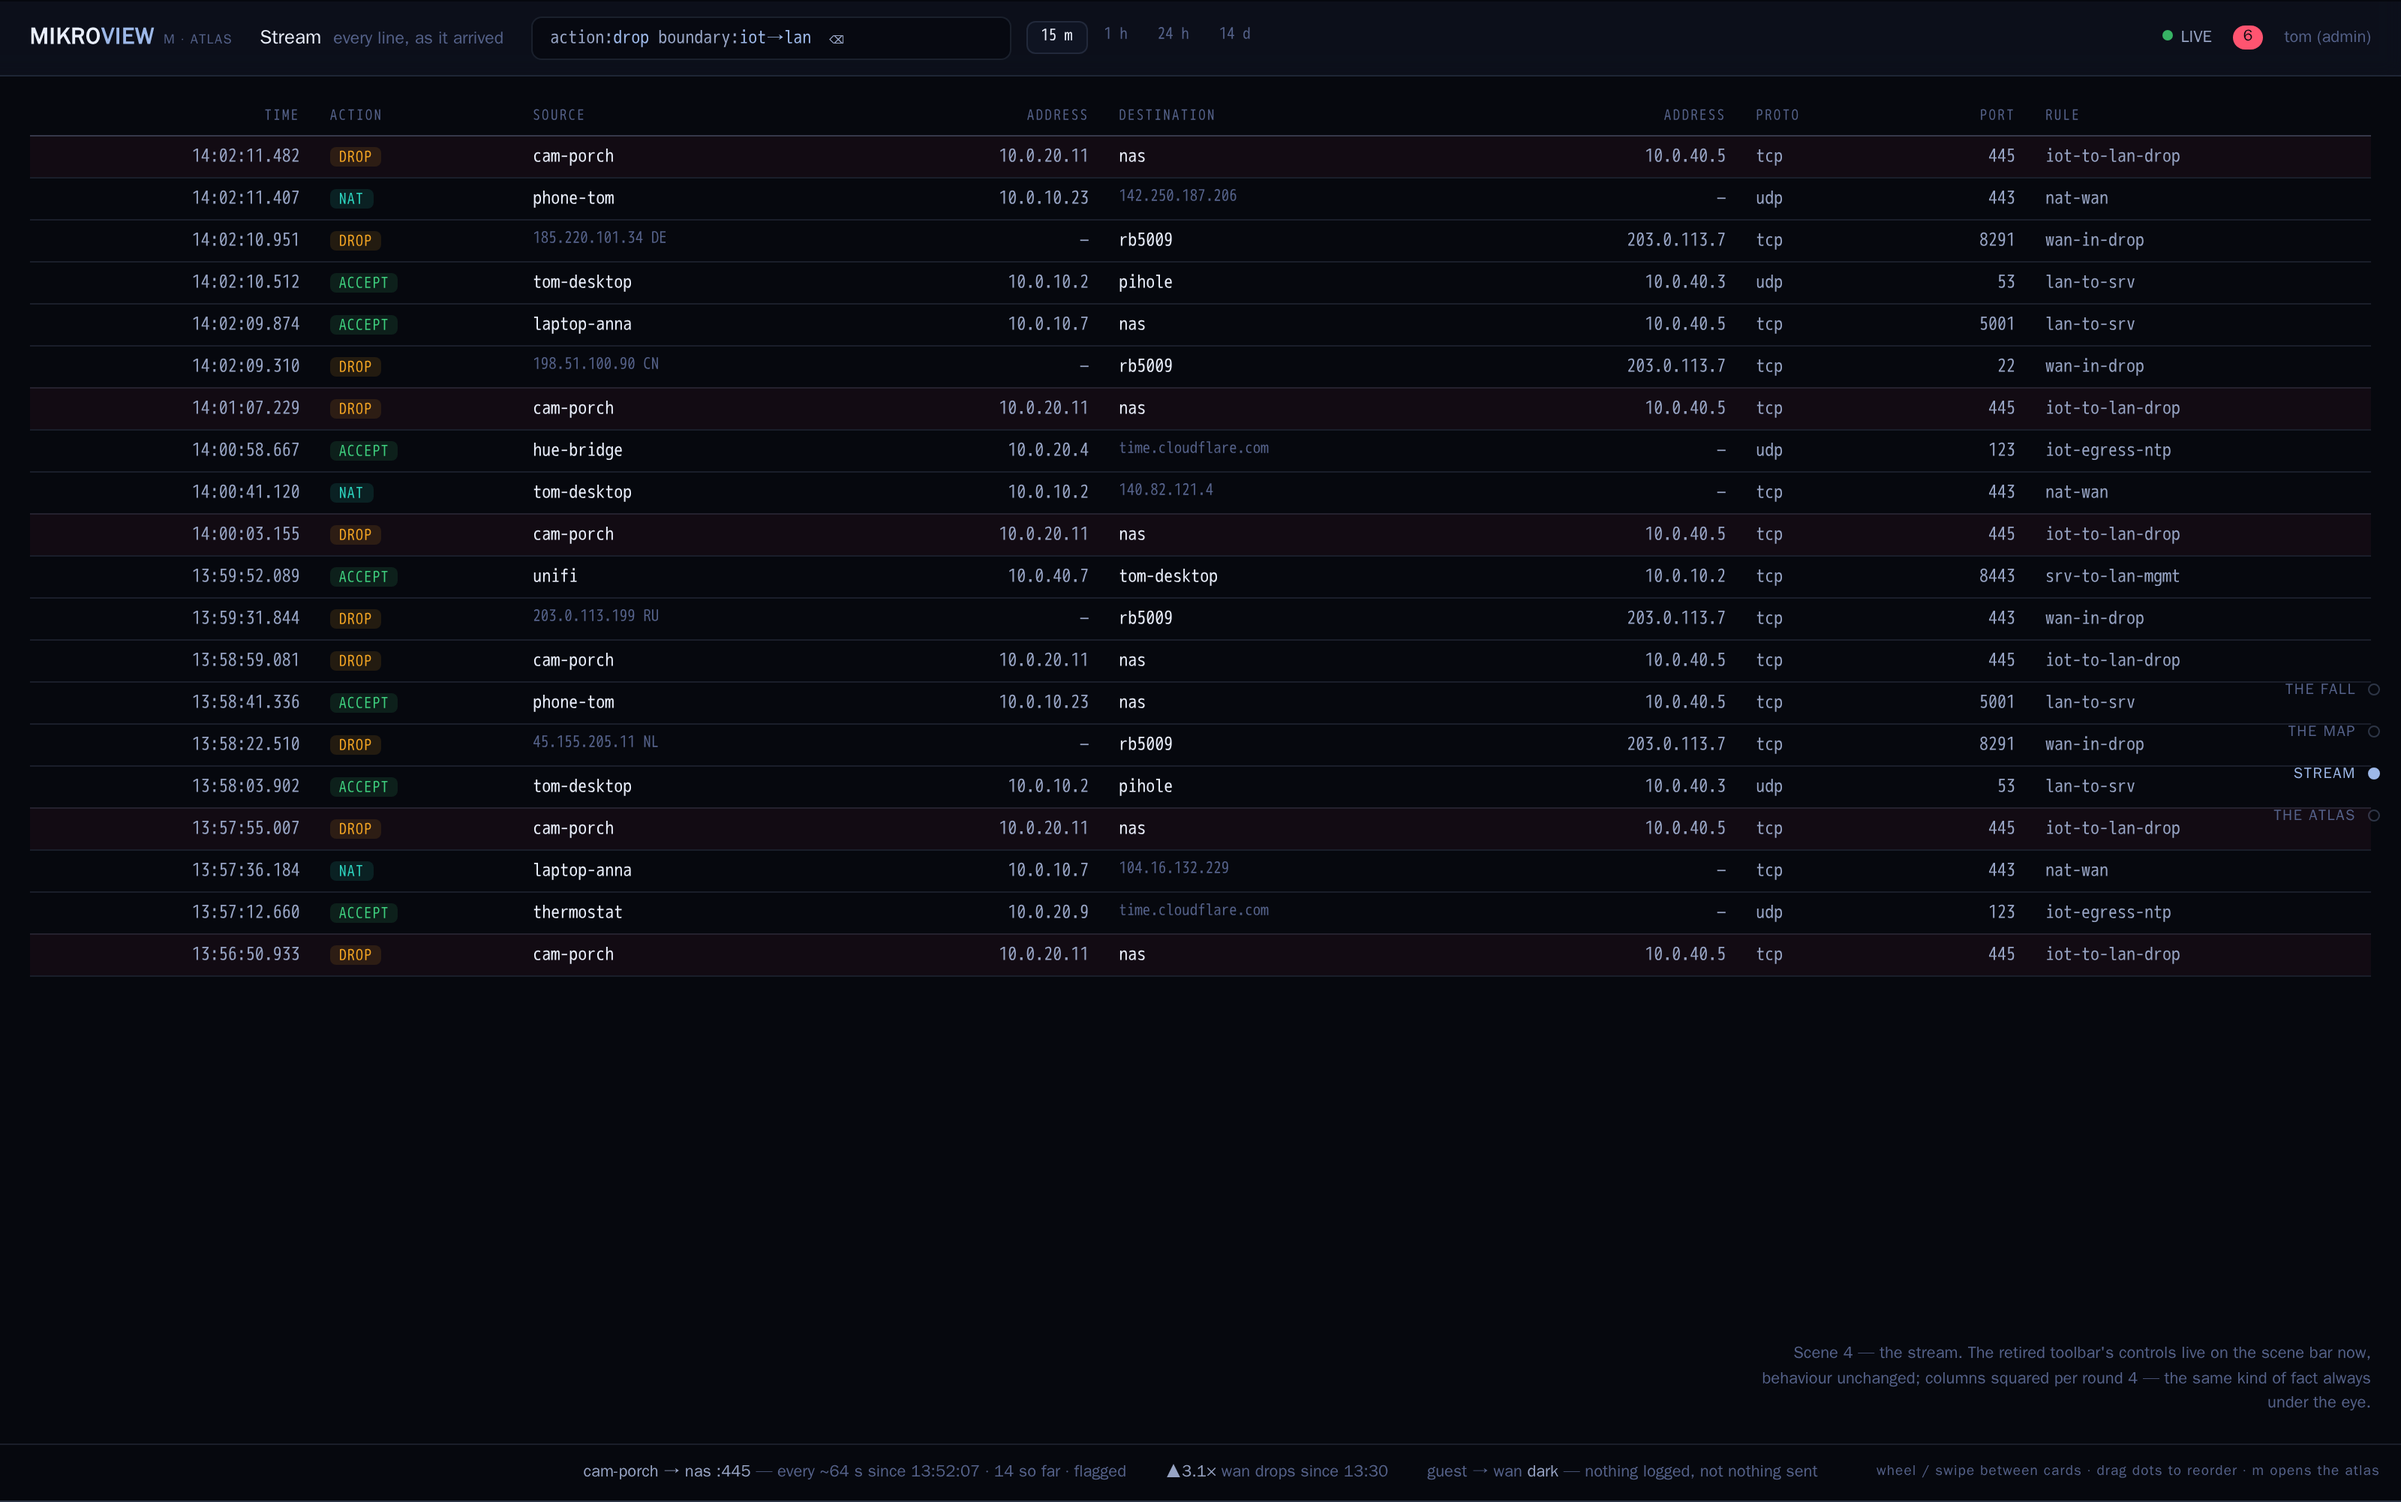
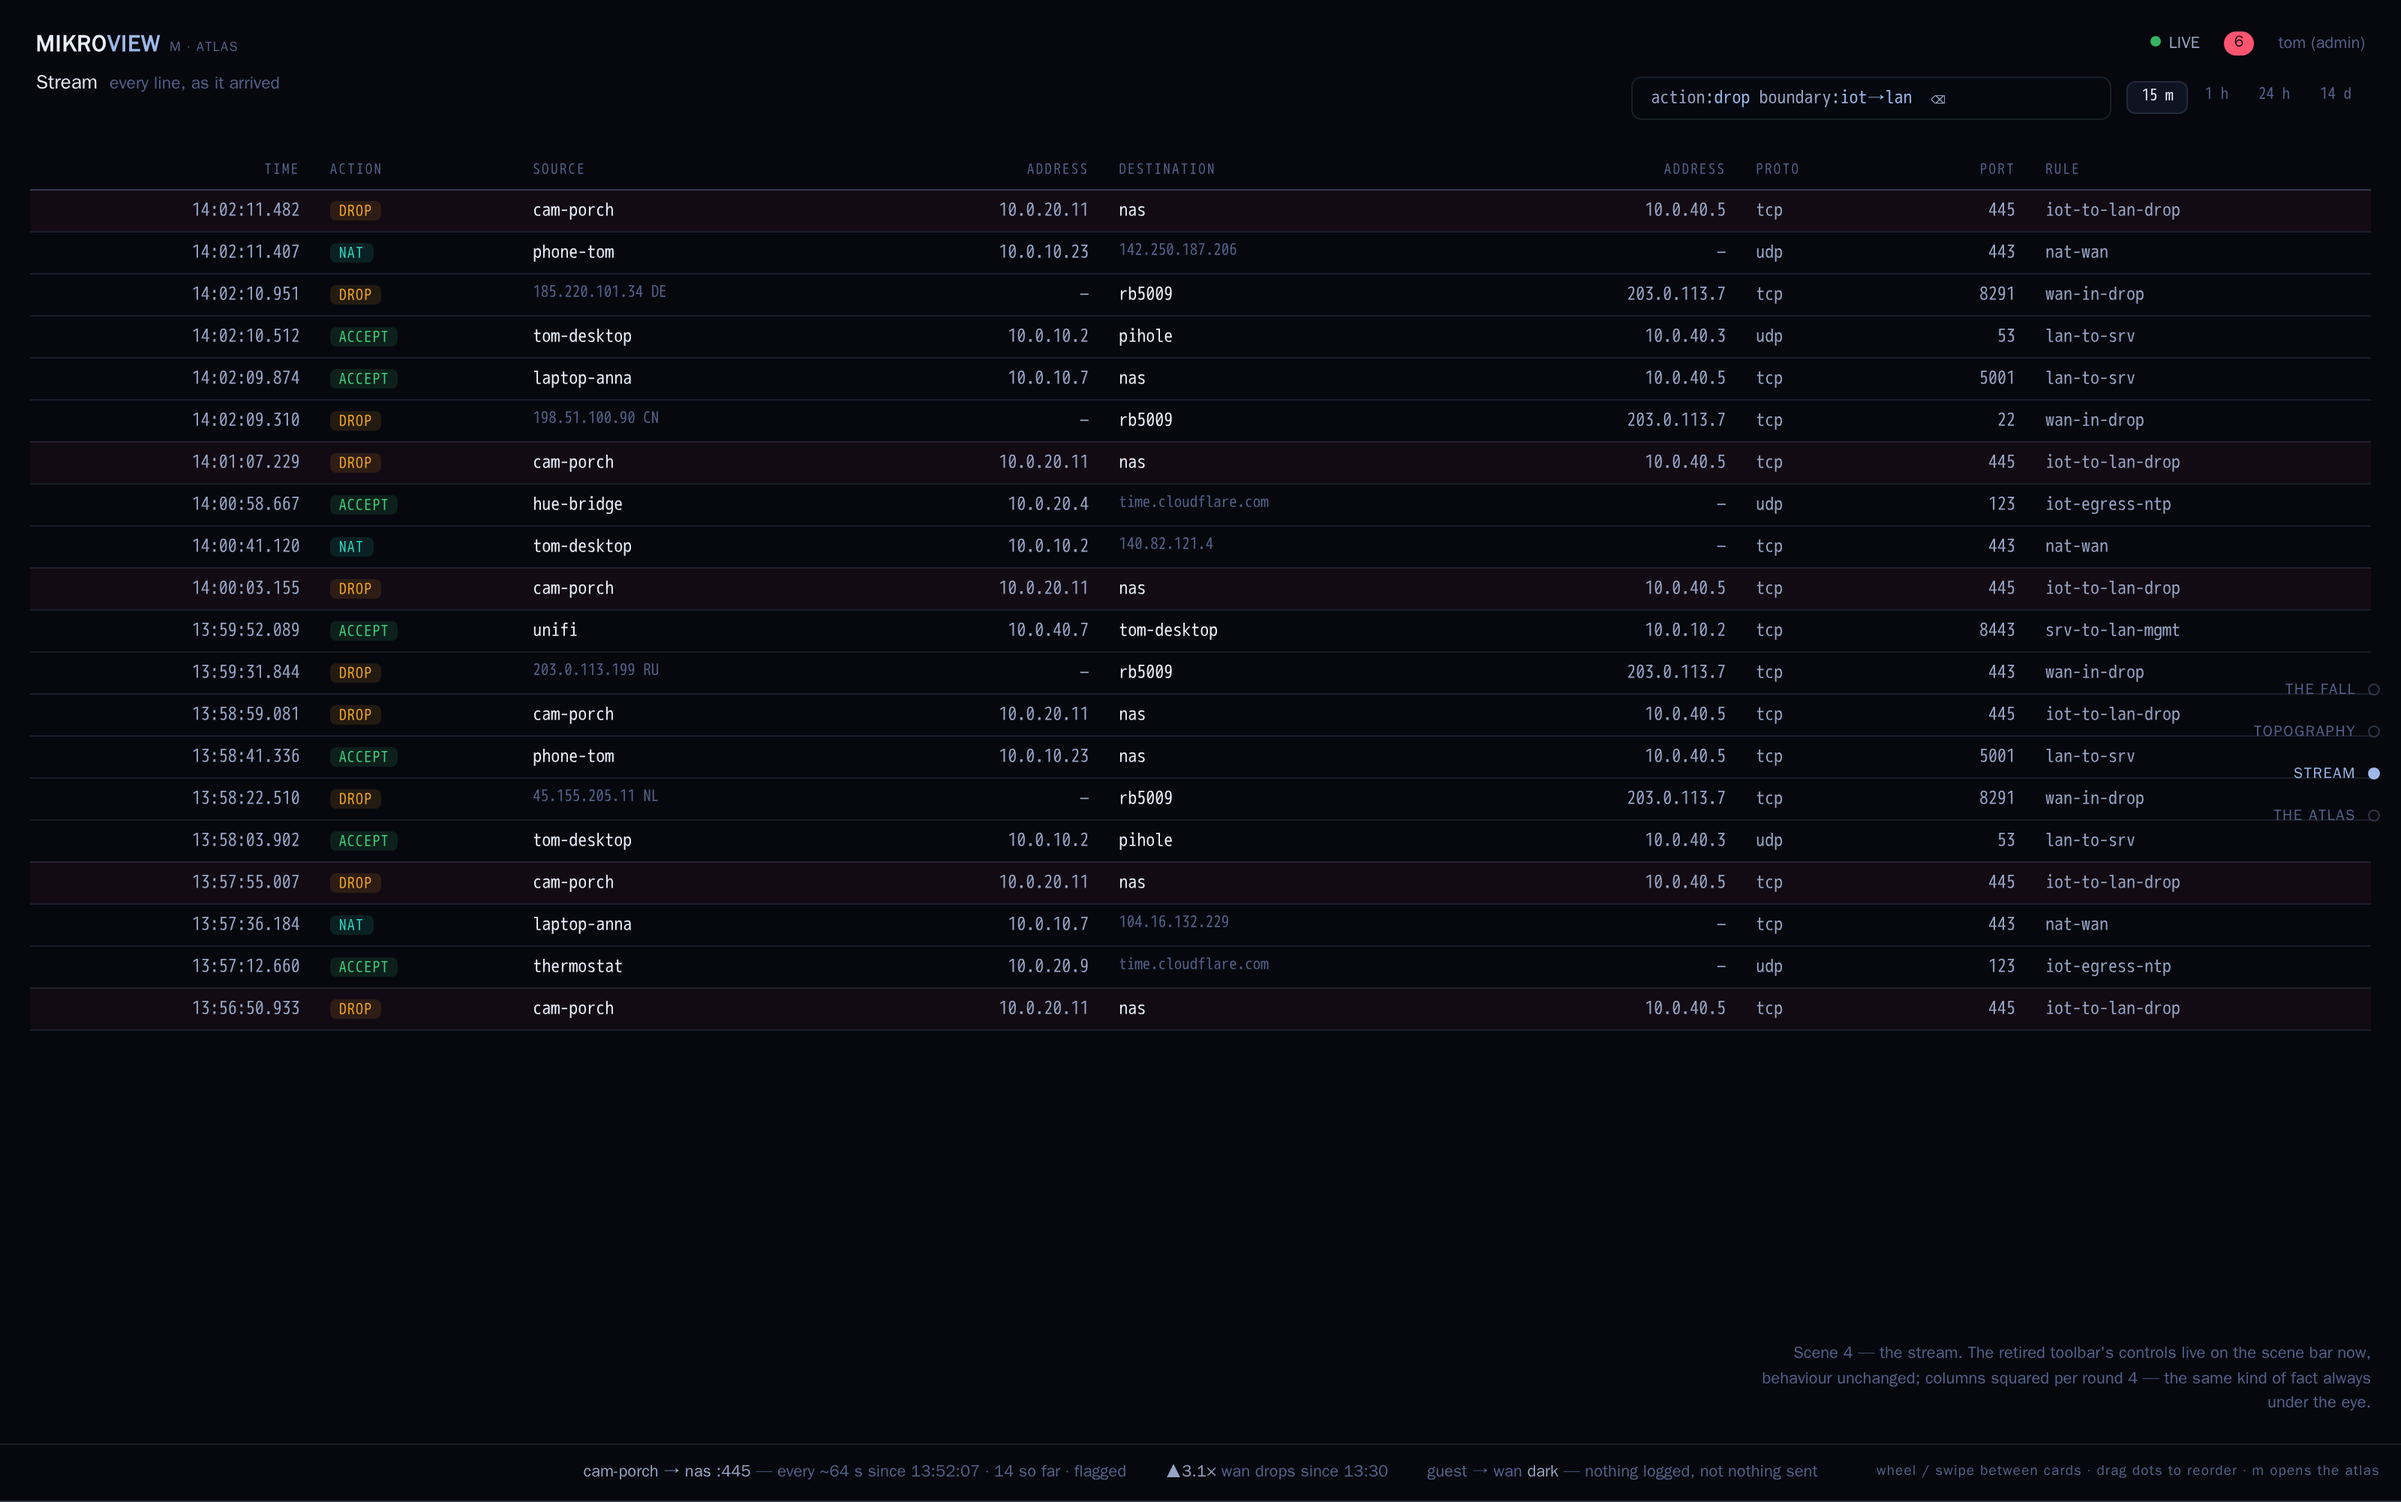
Round 5: door v3, free-floating chrome (#634)

diff --git a/docs/design/concepts/round-5/the-deck.html b/docs/design/concepts/round-5/the-deck.html
@@ -56,16 +56,17 @@
   }
 
   /* ---- the scene bar: every scene's own chrome, no rail, no toolbar ---- */
-  .scenebar {
-    display: flex; align-items: center; gap: 18px; padding: 10px 20px;
-    border-bottom: 1px solid var(--hair); background: var(--glass); backdrop-filter: blur(6px);
-  }
-  .wordmark { font-weight: 800; font-size: 15px; letter-spacing: 0.04em; color: var(--ink); cursor: pointer; }
+  /* Free-floating chrome (owner, 2026-08-30: "I still don't like the
+     rigid top bar"): the same information, loose on the void — no
+     strip, no border, no glass. Each element floats where it reads. */
+  .scenebar { position: absolute; top: 0; left: 0; right: 0; z-index: 10; pointer-events: none; }
+  .scenebar > * { pointer-events: auto; }
+  .wordmark { position: absolute; top: 18px; left: 24px; font-weight: 800; font-size: 15px; letter-spacing: 0.04em; color: var(--ink); cursor: pointer; }
   .wordmark em { font-style: normal; color: var(--accent); }
   .wordmark .hintkey { font-size: 9px; color: var(--ink-3); font-weight: 400; margin-left: 6px; letter-spacing: 0.08em; }
-  .scname { font-size: 13px; font-weight: 650; color: var(--ink); }
+  .scname { position: absolute; top: 44px; left: 24px; font-size: 13px; font-weight: 650; color: var(--ink); white-space: nowrap; }
   .scname .epi { font-weight: 400; color: var(--ink-3); margin-left: 8px; font-size: 11.5px; }
-  .scstatus { margin-left: auto; display: flex; gap: 14px; align-items: center; font-size: 11px; color: var(--ink-2); }
+  .scstatus { position: absolute; top: 20px; right: 24px; display: flex; gap: 16px; align-items: center; font-size: 11px; color: var(--ink-2); }
   .scstatus .dot { display: inline-block; width: 7px; height: 7px; border-radius: 50%; background: var(--ok); margin-right: 5px; vertical-align: 1px; }
   .scstatus .flagchip { color: var(--void); background: var(--alarm); border-radius: 9px; padding: 0 7px; font-weight: 700; font-size: 10.5px; }
   .scstatus .who { color: var(--ink-3); }
@@ -74,22 +75,22 @@
   .door { display: flex; flex-direction: column; min-height: 100vh; position: relative; }
   .door .beat { flex: 1; display: grid; place-items: center; position: relative; }
   .door .stack { text-align: center; width: 300px; }
-  .door .wm { font-size: 34px; font-weight: 800; letter-spacing: 0.04em; }
+  .door .wm {
+    display: inline-block; font-size: 34px; font-weight: 800; letter-spacing: 0.04em;
+    padding: 12px 30px; border: 1.5px solid var(--now); border-radius: 4px;
+    box-shadow: 0 0 14px rgba(232, 176, 90, 0.22), inset 0 0 10px rgba(232, 176, 90, 0.06);
+    animation: kindle 0.5s ease-out;
+  }
   .door .wm em { font-style: normal; color: var(--accent); }
-  .brink {
-    height: 2px; width: 0; margin: 16px auto 0; background: var(--now);
-    box-shadow: 0 0 10px rgba(232, 176, 90, 0.4);
-    animation: draw 0.45s ease-out forwards;
+  @keyframes kindle { from { box-shadow: none; border-color: rgba(232, 176, 90, 0); } }
+  .fullfall { position: absolute; inset: 0; overflow: hidden; pointer-events: none; }
+  .fullfall i {
+    position: absolute; top: -20px; width: 2.5px; height: 13px; border-radius: 2px;
+    background: var(--fall-accept); animation: fall 5.5s linear infinite;
   }
-  @keyframes draw { to { width: 300px; } }
-  .minifall { height: 110px; position: relative; overflow: hidden; }
-  .minifall i {
-    position: absolute; top: -14px; width: 2.5px; height: 12px; border-radius: 2px;
-    background: var(--fall-accept); animation: fall 1.7s linear infinite;
-  }
-  .minifall i.r { background: var(--fall-drop); }
-  .minifall i.v { background: #a78bfa; }
-  @keyframes fall { to { transform: translateY(130px); opacity: 0.05; } }
+  .fullfall i.r { background: var(--fall-drop); }
+  .fullfall i.v { background: #a78bfa; }
+  @keyframes fall { to { transform: translateY(106vh); } }
   .cred input {
     display: block; width: 240px; margin: 10px auto 0; padding: 7px 4px;
     background: transparent; border: 0; border-bottom: 1px solid var(--hair-2);
@@ -112,11 +113,11 @@
   .outboard .pill { display: inline-block; margin-left: 8px; padding: 1px 12px; border: 1px solid var(--hair-2); border-radius: 999px; color: var(--accent); font-size: 10.5px; }
 
   /* ---- scene 2: the map (Atlas II refined, carried forward) ---- */
-  .lenses { display: flex; gap: 6px; padding: 10px 20px 0; position: relative; z-index: 4; }
+  .lenses { display: flex; gap: 6px; padding: 88px 24px 0; position: relative; z-index: 4; }
   .lens { font-size: 11px; color: var(--ink-3); border: 1px solid var(--hair); border-radius: 14px; padding: 3px 12px; }
   .lens.on { color: var(--ink); border-color: var(--hair-2); background: var(--raised); }
   .lens .ct { color: var(--void); background: var(--alarm); border-radius: 8px; padding: 0 6px; margin-left: 6px; font-weight: 700; font-size: 10px; }
-  .stage { position: absolute; inset: 96px 0 150px; }
+  .stage { position: absolute; inset: 132px 0 90px; }
   .stage svg { width: 100%; height: 100%; }
   .isl { fill: rgba(15, 20, 34, 0.72); stroke: var(--hair-2); }
   .n-name { font: 650 15px var(--sans); fill: var(--ink); }
@@ -156,7 +157,7 @@
   .b-nat { color: var(--nat); background: rgba(45, 212, 191, 0.12); }
 
   /* ---- scene 2 (Q): the fall — the accepted live build, restated ---- */
-  .fallwrap { position: absolute; inset: 56px 0 0; display: flex; flex-direction: column; }
+  .fallwrap { position: absolute; inset: 78px 0 0; display: flex; flex-direction: column; }
   .fall-head { display: flex; gap: 10px; align-items: center; padding: 10px 20px 4px; }
   .fall-chip { font: 600 10.5px var(--mono); letter-spacing: 0.05em; border-radius: 12px; padding: 3px 12px; border: 1px solid; }
   .fc-alarm { color: var(--alarm); border-color: rgba(255, 84, 112, 0.5); }
@@ -213,7 +214,6 @@
   .deckrail .dot { width: 8px; height: 8px; border-radius: 50%; border: 1.5px solid var(--hair-2); }
   .deckrail a.on { color: var(--accent); }
   .deckrail a.on .dot { background: var(--accent); border-color: var(--accent); }
-  .deckhint { position: fixed; right: 14px; bottom: 14px; z-index: 60; font-size: 9.5px; color: var(--ink-3); letter-spacing: 0.06em; }
   /* ---- the atlas's deck-order editor ---- */
   .deckorder { display: flex; gap: 10px; justify-content: center; align-items: center; padding: 12px 0 0; font-size: 12px; color: var(--ink-2); }
   .deckorder .lab { font-size: 9.5px; letter-spacing: 0.14em; text-transform: uppercase; color: var(--ink-3); margin-right: 8px; }
@@ -255,7 +255,7 @@
   .atlas .account b { color: var(--ink-2); font-weight: 600; }
 
   /* ---- scene 4: the stream, columns squared ---- */
-  .controls { display: flex; gap: 10px; align-items: center; }
+  .controls { position: absolute; top: 50px; right: 24px; display: flex; gap: 10px; align-items: center; }
   .controls .search {
     width: 320px; padding: 5px 12px; font: 12px var(--mono); color: var(--ink-2);
     background: rgba(6, 8, 14, 0.7); border: 1px solid var(--hair); border-radius: 7px;
@@ -264,7 +264,7 @@
   .spans { display: flex; gap: 2px; font: 10.5px var(--mono); color: var(--ink-3); }
   .spans span { padding: 3px 9px; border-radius: 6px; }
   .spans .on { color: var(--ink); background: var(--raised); border: 1px solid var(--hair); }
-  table.stream { width: calc(100% - 40px); margin: 14px 20px; border-collapse: collapse; font: 12px var(--mono); }
+  table.stream { width: calc(100% - 40px); margin: 100px 20px 14px; border-collapse: collapse; font: 12px var(--mono); }
   table.stream th {
     text-align: left; font: 600 9.5px var(--mono); letter-spacing: 0.12em; text-transform: uppercase;
     color: var(--ink-3); padding: 6px 10px; border-bottom: 1px solid var(--hair-2);
@@ -297,20 +297,29 @@
 
 <!-- ============ SCENE 1 : THE DOOR — ONE BEAT, THEN IN ============ -->
 <section class="scene door" id="s1" aria-label="Login: one beat — the brink lights, the fall begins, you enter">
-  <div class="scene-tag">Scene 1 — the door, redone to Orbit's speed standard: instant paint, one sub-second beat, no card, no chrome. The brink draws, the fall begins, you enter. Signing in lands on the first card of your deck. The strip below storyboards the way out.</div>
+  <div class="scene-tag">Scene 1 — the door, redone to Orbit's speed standard: instant paint, one sub-second beat, no card, no chrome. The fall rains over the whole void; the brink frames the wordmark; you enter. Signing in lands on the first card of your deck. The strip below storyboards the way out.</div>
   <div class="beat">
+    <div class="fullfall" aria-hidden="true">
+      <i style="left: 4%; animation-delay: 0.2s; opacity: 0.5"></i>
+      <i style="left: 9%; animation-delay: 3.1s; opacity: 0.3"></i>
+      <i class="r" style="left: 15%; animation-delay: 1.6s; opacity: 0.55"></i>
+      <i style="left: 21%; animation-delay: 4.4s; opacity: 0.4"></i>
+      <i style="left: 26%; animation-delay: 2.2s; opacity: 0.65"></i>
+      <i class="v" style="left: 33%; animation-delay: 5.0s; opacity: 0.45"></i>
+      <i style="left: 38%; animation-delay: 0.9s; opacity: 0.3"></i>
+      <i class="r" style="left: 45%; animation-delay: 3.7s; opacity: 0.4"></i>
+      <i style="left: 51%; animation-delay: 1.2s; opacity: 0.6"></i>
+      <i style="left: 57%; animation-delay: 4.8s; opacity: 0.35"></i>
+      <i style="left: 63%; animation-delay: 2.7s; opacity: 0.5"></i>
+      <i class="v" style="left: 69%; animation-delay: 0.5s; opacity: 0.4"></i>
+      <i class="r" style="left: 75%; animation-delay: 3.4s; opacity: 0.6"></i>
+      <i style="left: 81%; animation-delay: 1.9s; opacity: 0.35"></i>
+      <i style="left: 86%; animation-delay: 5.3s; opacity: 0.55"></i>
+      <i class="r" style="left: 91%; animation-delay: 2.4s; opacity: 0.35"></i>
+      <i style="left: 96%; animation-delay: 4.1s; opacity: 0.5"></i>
+    </div>
     <div class="stack">
       <div class="wm">MIKRO<em>VIEW</em></div>
-      <div class="brink" aria-hidden="true"></div>
-      <div class="minifall" aria-hidden="true">
-        <i style="left: 14%; animation-delay: 0.5s"></i>
-        <i style="left: 27%; animation-delay: 1.1s; opacity: 0.7"></i>
-        <i class="r" style="left: 41%; animation-delay: 0.7s"></i>
-        <i style="left: 55%; animation-delay: 1.4s"></i>
-        <i style="left: 66%; animation-delay: 0.9s; opacity: 0.6"></i>
-        <i class="v" style="left: 78%; animation-delay: 1.6s; opacity: 0.8"></i>
-        <i class="r" style="left: 89%; animation-delay: 1.2s; opacity: 0.7"></i>
-      </div>
       <form class="cred" aria-label="Sign in">
         <input type="text" placeholder="account" aria-label="Account">
         <input type="password" placeholder="passphrase" aria-label="Passphrase">
@@ -791,7 +800,6 @@
   <a href="#s4"><span class="dot"></span>Stream</a>
   <a href="#s5"><span class="dot"></span>The atlas</a>
 </nav>
-<div class="deckhint">wheel / swipe between cards · drag dots to reorder · m opens the atlas</div>
 <script>
   // Round apparatus + the deck's one live behaviour: mark the card in view.
   const links = [...document.querySelectorAll('.deckrail a')]

diff --git a/docs/design/concepts/round-5/README.md b/docs/design/concepts/round-5/README.md
@@ -98,7 +98,21 @@ apparatus, not design.
   is gone. (Fallback candidate if this misses: a radial menu around
   the router station.)
 
+## The owner's third batch (2026-08-30)
+
+- **Door v2 accepted** ("Congratulations on the new login, great
+  work") with two amendments, both applied as v3: the falling pattern
+  covers the whole screen behind the login, and the amber draws as a
+  thin box framing the wordmark (1.5px) instead of the underline.
+- **The rigid top bar rejected again in card form**: "can we have the
+  information presented in more of a free floating way?" Applied: no
+  strip, no border, no glass — wordmark and scene name float top-left,
+  status cluster floats top-right, stream controls float beneath it.
+  The build's SceneBar.svelte follows once the round is ratified.
+
 ## Owner verdicts
 
-- Door v1: rejected. P/Q framing: rejected, superseded by R.
-- Door v2, direction R, the topography toggle, the far orbit: pending.
+- Door: v3 standing (v2 accepted + full-screen fall, boxed wordmark).
+- P/Q framing: rejected, superseded by R (the deck).
+- Direction R, the topography toggle, the far orbit, floating chrome:
+  pending.
